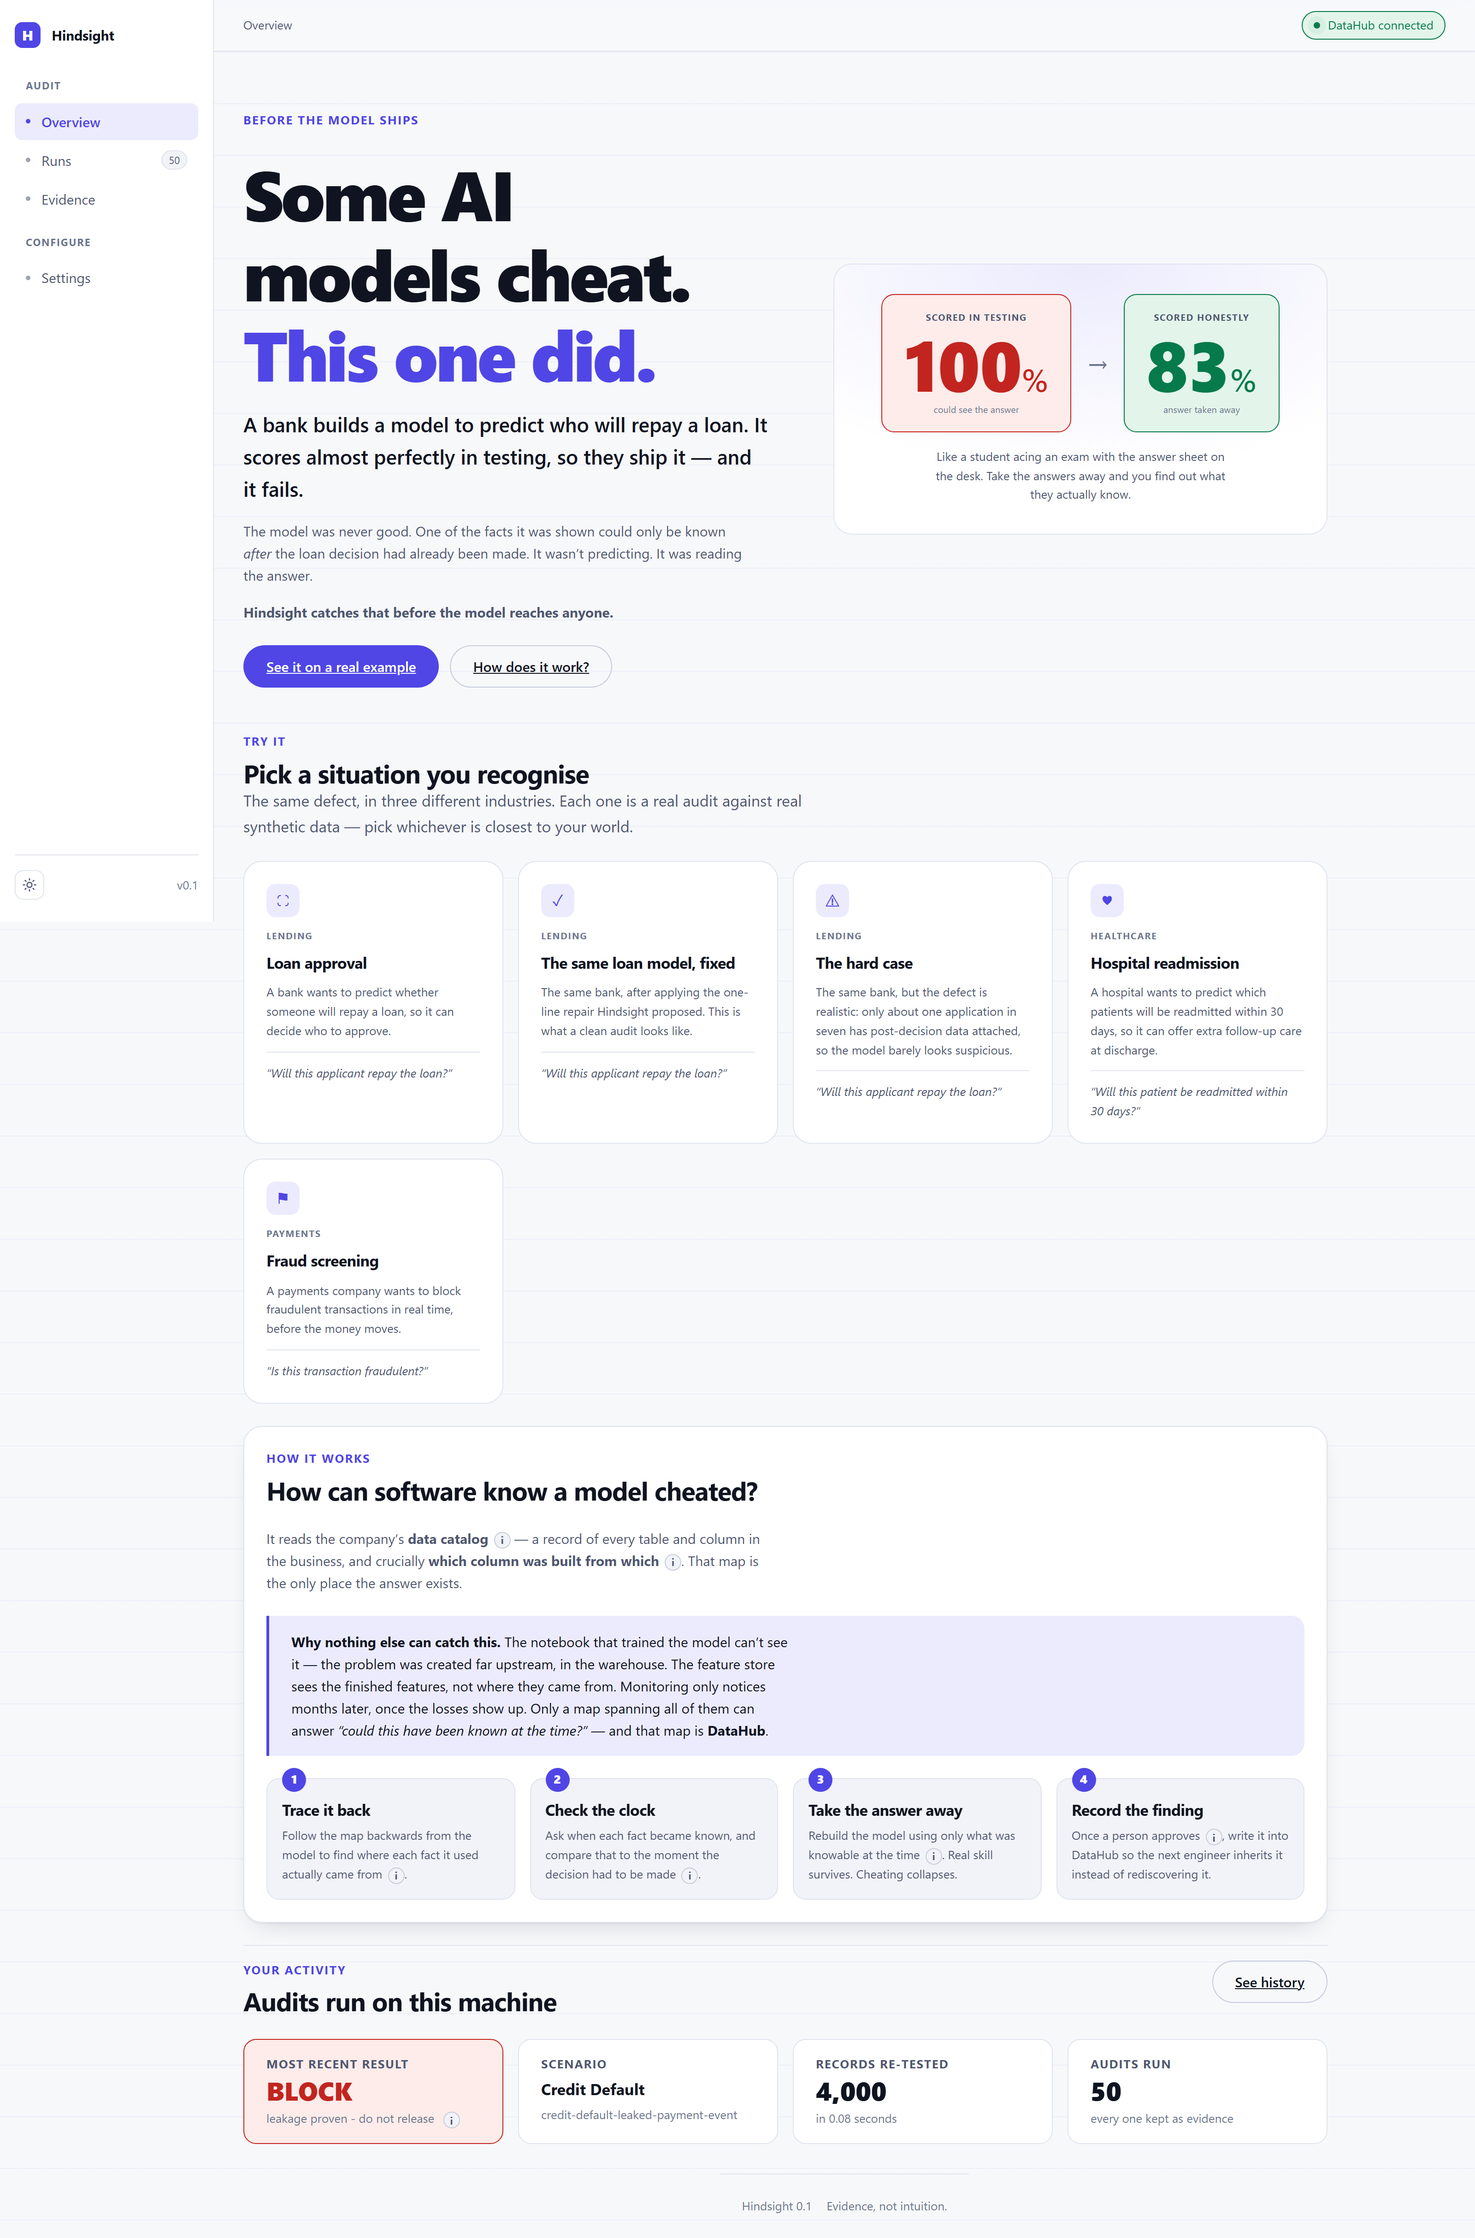
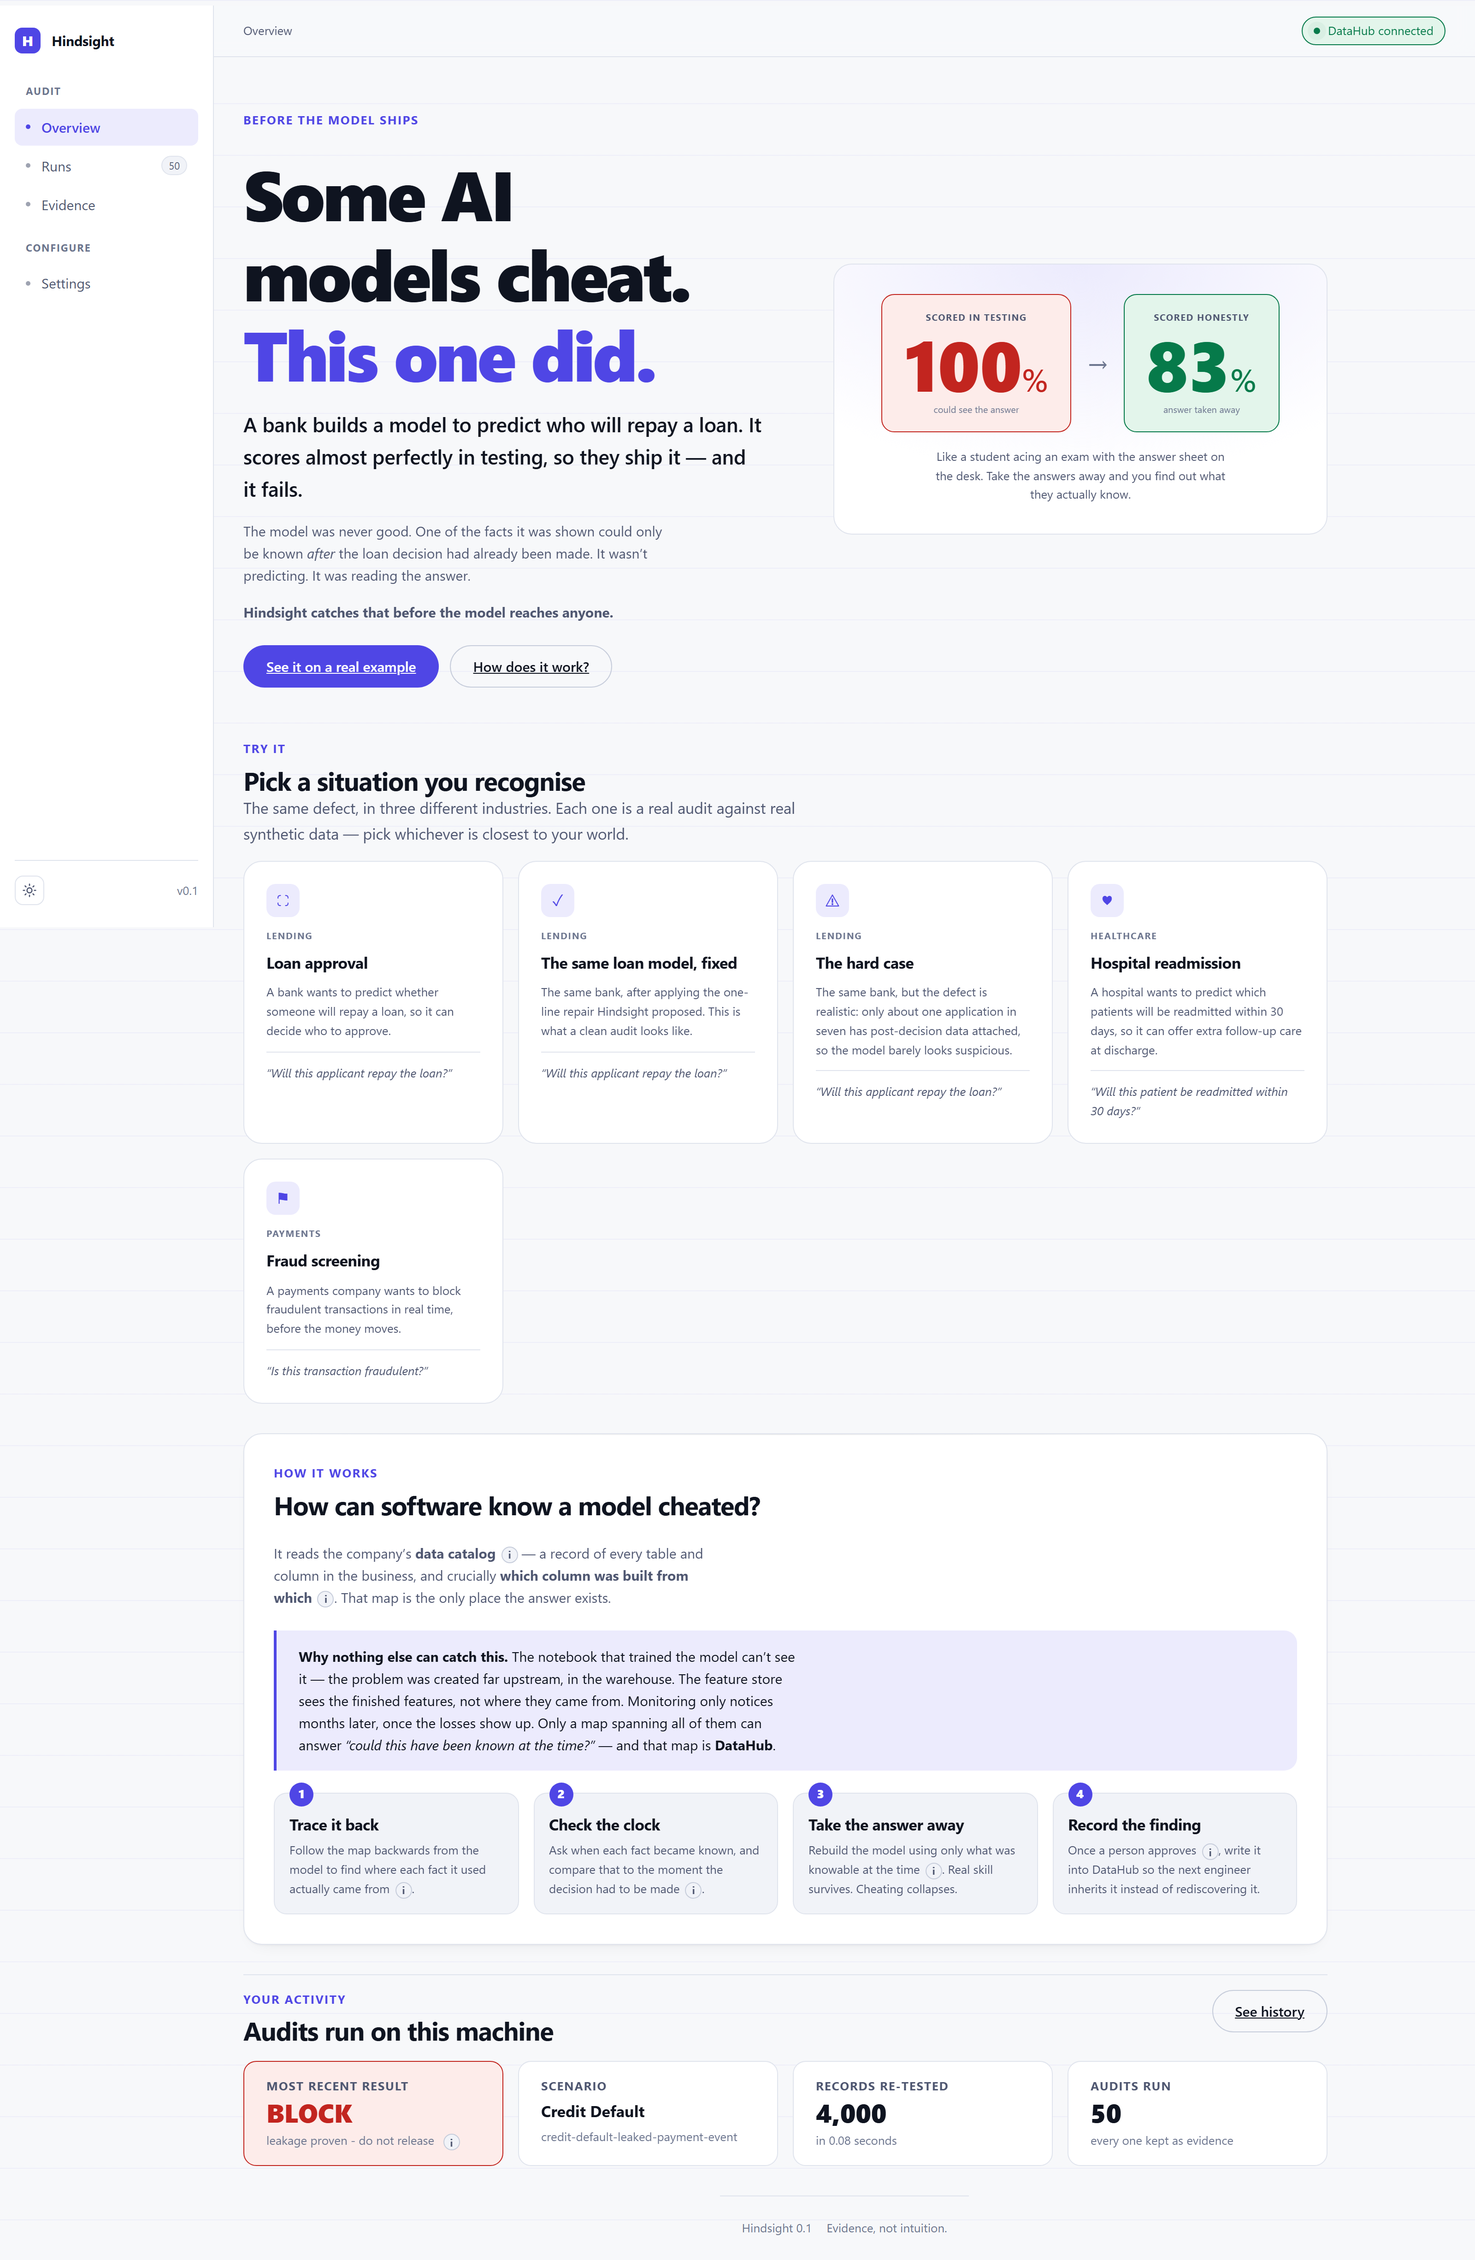
Design pass on the console: rhythm, hierarchy, and two layout bugs
Fixes a real one: .content is a grid and its items defaulted to
min-width auto, so a wide table stretched the track and scrolled the
whole evidence page sideways on desktop.

- verdict card fills its width; the decision reads as a stamp
- stamp ink chosen per theme (white on dark-mode red was 2.4:1)
- jump nav links only sections that exist in the current mode
- breadcrumb stays on one line on a phone
- consistent vertical scale, tighter tracking at display sizes
- entrance motion, behind prefers-reduced-motion
- 0 overflow across 5 routes x 4 viewports

diff --git a/src/hindsight/web/static/styles.css b/src/hindsight/web/static/styles.css
@@ -1684,3 +1684,265 @@ details.table-view.panel summary { font-weight: 600; }
 .trust-a strong { color: var(--text); }
 
 @media (max-width: 640px) { .trust-grid { grid-template-columns: 1fr; } }
+
+/* -- Jump nav: plain vs technical -----------------------------------------
+   Links must point at something the reader can actually see. In plain mode the
+   technical sections are hidden, so their links are too - and plain-mode
+   anchors take their place rather than leaving a single orphaned pill.
+------------------------------------------------------------------------- */
+
+
+/* ==========================================================================
+   Craft pass
+   The page read as loose rather than airy: inconsistent vertical rhythm, a
+   verdict card using half its width, flat surfaces, and no motion. Fixed here
+   rather than by adding decoration.
+   ========================================================================== */
+
+/* -- Typography ------------------------------------------------------------
+   One family, but used properly: optical sizing, tightened tracking as size
+   increases, and tabular figures only where numbers align in columns.
+------------------------------------------------------------------------- */
+
+:root {
+  --font-sans: "Inter var", "Inter", ui-sans-serif, system-ui, -apple-system,
+    "Segoe UI Variable Text", "Segoe UI", Roboto, sans-serif;
+  --measure-tight: 58ch;
+}
+
+body {
+  font-optical-sizing: auto;
+  font-feature-settings: "cv05" 1, "ss03" 1;  /* single-storey l, rounded quotes */
+  text-rendering: optimizeLegibility;
+}
+
+/* Tracking tightens as type grows. Display sizes set loose look amateurish. */
+h1 { letter-spacing: -0.035em; }
+h2 { letter-spacing: -0.025em; }
+h3 { letter-spacing: -0.015em; }
+.lede { letter-spacing: -0.005em; }
+
+/* Body copy reads better a little narrower than the container allows. */
+.prose, .story-sub, .trust-a, .route span { max-width: var(--measure-tight); }
+
+/* -- Vertical rhythm -------------------------------------------------------
+   The old spacing came from whatever each block happened to set. One scale,
+   applied at the seams, so the page has a pulse instead of gaps.
+------------------------------------------------------------------------- */
+
+.content { gap: var(--sp-6); }
+.story { gap: var(--sp-5); }
+.story > * + * { margin-top: 0; }
+.section-heading { margin-bottom: var(--sp-4); }
+.panel { padding: var(--sp-6); }
+
+@media (max-width: 900px) {
+  .content { gap: var(--sp-5); }
+  .panel { padding: var(--sp-5) var(--sp-4); }
+}
+
+/* -- The verdict card ------------------------------------------------------
+   Was a wide box with a narrow text column and dead space on the right. The
+   decision now occupies that space, so the card carries both the sentence and
+   the number a reviewer is looking for.
+------------------------------------------------------------------------- */
+
+.story-verdict {
+  display: grid;
+  grid-template-columns: minmax(0, 1fr) auto;
+  gap: var(--sp-7);
+  align-items: center;
+  padding: var(--sp-6) var(--sp-7);
+}
+.verdict-copy { display: grid; gap: var(--sp-3); }
+.story-verdict h2 { font-size: var(--step-4); }
+
+.verdict-figure {
+  display: grid;
+  justify-items: center;
+  gap: 2px;
+  padding-left: var(--sp-7);
+  border-left: 1px solid var(--border);
+  min-width: 190px;
+}
+.verdict-stamp {
+  font-size: var(--step-3);
+  font-weight: 800;
+  letter-spacing: -0.02em;
+  line-height: 1;
+}
+.story-verdict.is-block .verdict-stamp { color: var(--danger); }
+.story-verdict.is-clear .verdict-stamp { color: var(--ok); }
+.verdict-meta {
+  font-size: 11px;
+  letter-spacing: 0.08em;
+  text-transform: uppercase;
+  color: var(--text-faint);
+  font-weight: 600;
+  text-align: center;
+}
+.verdict-rule {
+  width: 34px;
+  height: 1px;
+  background: var(--border-strong);
+  margin: var(--sp-3) 0;
+}
+.verdict-lost {
+  font-size: var(--step-4);
+  font-weight: 800;
+  line-height: 1;
+  letter-spacing: -0.03em;
+}
+.story-verdict.is-block .verdict-lost { color: var(--danger); }
+.story-verdict.is-clear .verdict-lost { color: var(--ok); }
+
+@media (max-width: 860px) {
+  .story-verdict { grid-template-columns: 1fr; gap: var(--sp-5); padding: var(--sp-5); }
+  .verdict-figure {
+    padding-left: 0; border-left: 0;
+    padding-top: var(--sp-5); border-top: 1px solid var(--border);
+    width: 100%;
+  }
+}
+
+/* -- Depth ----------------------------------------------------------------
+   Layering rather than drop shadows. A hairline top highlight reads as a
+   surface catching light; the shadow stays tight and low-contrast.
+------------------------------------------------------------------------- */
+
+:root[data-theme="dark"], :root:not([data-theme="light"]) {
+  --shadow: 0 1px 2px rgb(0 0 0 / 0.28), 0 8px 24px -14px rgb(0 0 0 / 0.55);
+}
+:root[data-theme="light"] {
+  --shadow: 0 1px 2px rgb(15 20 32 / 0.04), 0 8px 20px -14px rgb(15 20 32 / 0.14);
+}
+
+.panel, .story-verdict, .analogy, .how-we-knew, .routes, .trust, .story-timeline {
+  position: relative;
+}
+.panel::before, .story-verdict::before, .analogy::before,
+.how-we-knew::before, .routes::before, .trust::before, .story-timeline::before {
+  content: "";
+  position: absolute;
+  inset: 0 0 auto 0;
+  height: 1px;
+  border-radius: inherit;
+  background: linear-gradient(
+    90deg, transparent, color-mix(in srgb, var(--text) 8%, transparent), transparent
+  );
+  pointer-events: none;
+}
+
+/* -- Motion ---------------------------------------------------------------
+   Entrance only, once, and short. Anything that repeats or animates on scroll
+   becomes noise on a page someone is trying to read carefully.
+------------------------------------------------------------------------- */
+
+@media (prefers-reduced-motion: no-preference) {
+  .content > * {
+    animation: riseIn 380ms cubic-bezier(0.2, 0.7, 0.2, 1) both;
+  }
+  .content > *:nth-child(1) { animation-delay: 0ms; }
+  .content > *:nth-child(2) { animation-delay: 40ms; }
+  .content > *:nth-child(3) { animation-delay: 80ms; }
+  .content > *:nth-child(n+4) { animation-delay: 110ms; }
+
+  @keyframes riseIn {
+    from { opacity: 0; transform: translateY(6px); }
+    to { opacity: 1; transform: none; }
+  }
+
+  .card, .scenario-card, .trust-item, .beat, .step {
+    transition:
+      border-color var(--transition),
+      background var(--transition),
+      transform var(--transition);
+  }
+  .card:hover, .trust-item:hover, .beat:hover { border-color: var(--border-strong); }
+}
+
+/* -- Focus ----------------------------------------------------------------
+   A visible, consistent ring on every interactive element. Keyboard users get
+   the same affordances as everyone else, not an afterthought.
+------------------------------------------------------------------------- */
+
+:where(a, button, input, summary, [tabindex]):focus-visible {
+  outline: 2px solid var(--accent);
+  outline-offset: 2px;
+  box-shadow: none;
+  border-radius: var(--radius-sm);
+}
+.scenario-card:focus-visible { outline-offset: 3px; }
+
+/* Selection should look chosen, not accidental. */
+::selection { background: color-mix(in srgb, var(--accent) 28%, transparent); }
+
+/* Scrollbars inside dense panels, so they stop looking like OS chrome. */
+.log, .artifact, .table-wrap { scrollbar-width: thin; scrollbar-color: var(--border-strong) transparent; }
+.log::-webkit-scrollbar, .artifact::-webkit-scrollbar { width: 10px; height: 10px; }
+.log::-webkit-scrollbar-thumb, .artifact::-webkit-scrollbar-thumb {
+  background: var(--border-strong); border-radius: 999px;
+  border: 3px solid transparent; background-clip: content-box;
+}
+
+/* -- Hierarchy corrections -------------------------------------------------
+   Three things in the verdict card were competing for first read: the headline,
+   the decision, and the figure, all in the same red at similar weight. The
+   decision becomes a filled stamp - a different material, not a fourth red - so
+   the eye lands on it, then the sentence, then the number.
+------------------------------------------------------------------------- */
+
+.verdict-stamp {
+  padding: 6px 14px 7px;
+  border-radius: var(--radius-sm);
+  font-size: var(--step-1);
+  letter-spacing: 0.06em;
+  color: #fff;
+}
+.story-verdict.is-block .verdict-stamp { background: var(--danger); color: #fff; }
+.story-verdict.is-clear .verdict-stamp { background: var(--ok); color: #06210f; }
+.verdict-figure { gap: var(--sp-2); }
+.verdict-rule { margin: var(--sp-2) 0; }
+
+/* The page title and the verdict headline were the same size, which flattened
+   the order of reading. The question comes first; the answer is one step down. */
+.story-verdict h2 { font-size: clamp(1.7rem, 1.2rem + 2.1vw, 2.5rem); }
+
+/* Short trailing lines like "to approve." on their own row look like a mistake. */
+.lede, .story-sub, .prose { text-wrap: pretty; }
+
+/* A filled chip needs an ink colour chosen per theme, not a fixed white. In
+   dark mode --danger is a light red, so white-on-red measures about 2.4:1 and
+   fails WCAG AA outright. These pair each fill with ink above 4.5:1. */
+:root, :root[data-theme="dark"] { --on-danger: #2b0709; --on-ok: #04210f; }
+:root[data-theme="light"] { --on-danger: #ffffff; --on-ok: #ffffff; }
+@media (prefers-color-scheme: light) {
+  :root:not([data-theme="dark"]) { --on-danger: #ffffff; --on-ok: #ffffff; }
+}
+.story-verdict.is-block .verdict-stamp { color: var(--on-danger); }
+.story-verdict.is-clear .verdict-stamp { color: var(--on-ok); }
+
+/* The main column is a grid, and grid items default to min-width: auto - so a
+   single wide table or code block stretched the track and scrolled the whole
+   page sideways. Clamping the track makes wide content scroll inside its own
+   wrapper, which is where it belonged. */
+.content { grid-template-columns: minmax(0, 1fr); }
+.content > *, .page-head > * { min-width: 0; }
+
+/* Same failure one level down: the run controls sat beside the title and forced
+   the row wider than a phone. Below the fold-out width they stack. */
+@media (max-width: 640px) {
+  .page-head { grid-template-columns: minmax(0, 1fr); }
+  .page-head .mode-switch, .page-head form { justify-self: start; }
+}
+
+/* On a phone the run id wrapped onto three lines and made the breadcrumb taller
+   than the page title. It is an identifier, not prose - keep it on one line and
+   let the row scroll if it has to. */
+.crumbs { min-width: 0; flex-wrap: nowrap; white-space: nowrap; overflow: hidden; }
+.crumbs code { overflow: hidden; text-overflow: ellipsis; }
+@media (max-width: 640px) {
+  .crumbs { font-size: var(--step--2, 0.75rem); }
+  .crumbs > *:not(:last-child):not(.sep) { display: none; }
+  .crumbs > .sep { display: none; }
+}

diff --git a/src/hindsight/web/templates/_story.html b/src/hindsight/web/templates/_story.html
@@ -4,9 +4,21 @@
 <section class="story" aria-labelledby="story-heading">
 
   <div class="story-verdict {{ 'is-block' if bundle.release_decision == 'block' else 'is-clear' }}">
-    <p class="eyebrow">In plain English</p>
-    <h2 id="story-heading">{{ plain.headline }}</h2>
-    <p class="story-sub">{{ plain.subhead }}</p>
+    <div class="verdict-copy">
+      <p class="eyebrow">In plain English</p>
+      <h2 id="story-heading">{{ plain.headline }}</h2>
+      <p class="story-sub">{{ plain.subhead }}</p>
+    </div>
+    {#- The card was half empty. The decision belongs in that space, not below. -#}
+    <div class="verdict-figure" role="group" aria-label="Release decision">
+      <span class="verdict-stamp">{{ bundle.release_decision | upper }}</span>
+      <span class="verdict-meta">{{ bundle.verdict | replace("_", " ") }}</span>
+      <span class="verdict-rule" aria-hidden="true"></span>
+      <span class="verdict-lost">{{ plain.lost_pct }}%</span>
+      <span class="verdict-meta">
+        {% if bundle.release_decision == 'block' %}of the skill was borrowed{% else %}skill retained{% endif %}
+      </span>
+    </div>
   </div>
 
   {#- The analogy. One idea, no jargon, mapped onto this scenario. -#}
@@ -83,7 +95,7 @@
       not sit behind the technical toggle. Framed here in plain language. -#}
   <div class="story-timeline">
     <p class="eyebrow">The problem, on a calendar</p>
-    <h3>One fact arrived after the decision</h3>
+    <h3 id="lineage-heading">One fact arrived after the decision</h3>
     <p class="prose">
       Everything left of the red line was knowable when the decision had to be made. Everything
       right of it did not exist yet. Watch the bottom row cross the line.

diff --git a/src/hindsight/web/templates/audit_detail.html b/src/hindsight/web/templates/audit_detail.html
@@ -25,8 +25,11 @@
 </section>
 
 <nav class="jumpnav" aria-label="Sections on this page">
+  {#- The story renders in both modes, so its anchors are unconditional. Only the
+      evidence sections below are technical-only. -#}
   <a href="#story-heading">Verdict</a>
-  <a href="#lineage-heading" class="tech-link">Timeline</a>
+  <a href="#trust-heading">Why believe it</a>
+  <a href="#lineage-heading">Timeline</a>
   <a href="#activity-heading" class="tech-link">What the agent did</a>
   <a href="#trap-heading" class="tech-link">The ablation trap</a>
   <a href="#publish-heading" class="tech-link">Publish</a>

diff --git a/scripts/capture_screenshots.py b/scripts/capture_screenshots.py
@@ -28,6 +28,7 @@ CONSOLE_SHOTS = [
     ("console-overview.png", "/", "Overview with the scenario picker", "dark", True),
     ("console-overview-light.png", "/", "The same page in light theme", "light", True),
     ("console-audit-plain.png", "/audits/latest", "Plain-English verdict", "dark", True),
+    ("console-evidence.png", "/evidence", "The artifacts, read from disk", "dark", True),
     ("console-runs.png", "/audits", "Run history", "dark", False),
     ("console-settings.png", "/settings", "Connection and audit target", "dark", False),
 ]
